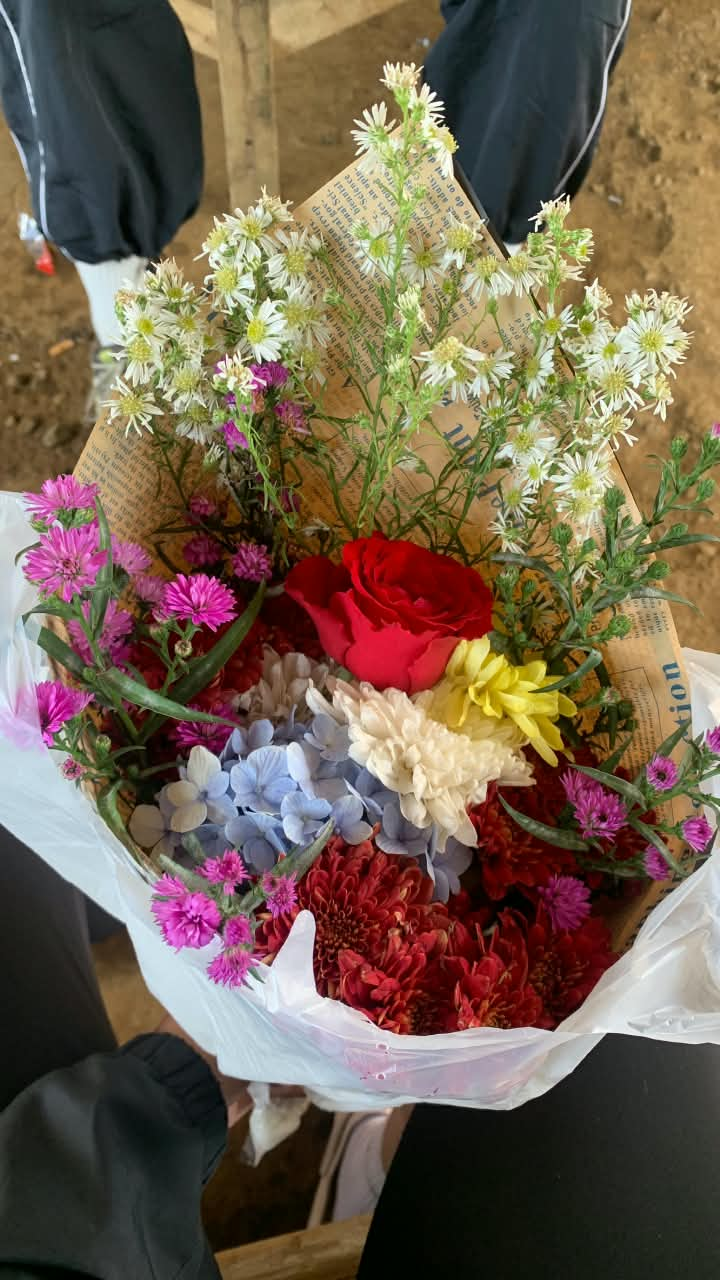
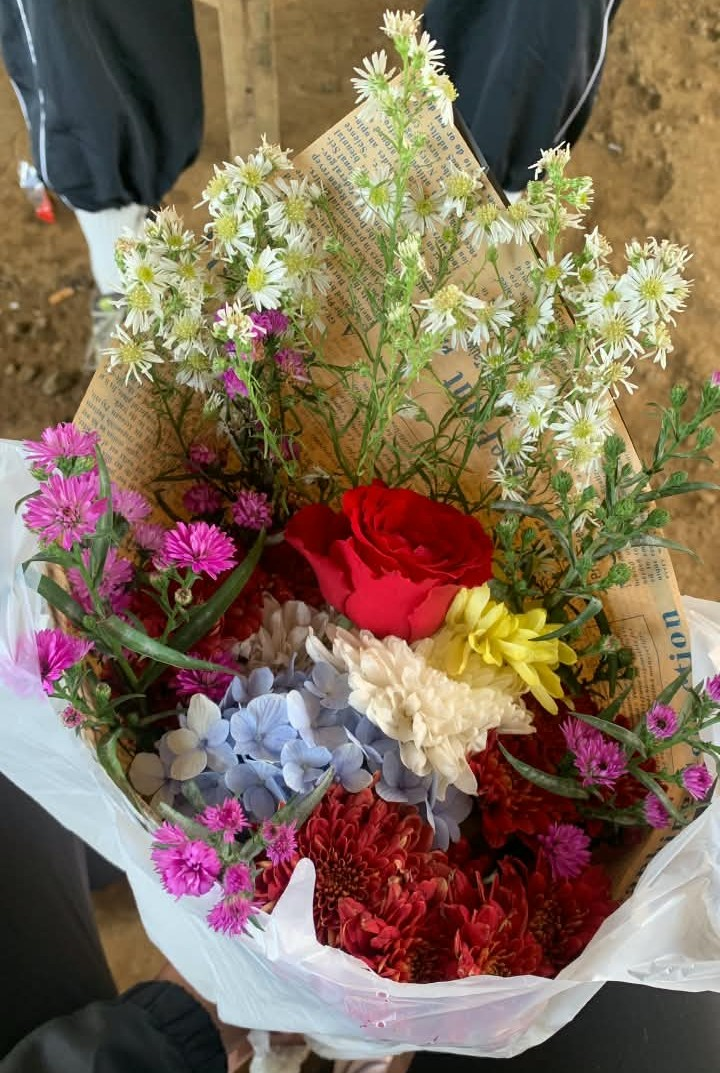
foto5 ikut rasio asli & lebih kecil, cover lebih estetik, catatan Panasea jadi toast melayang yang bisa di-skip

diff --git a/app/globals.css b/app/globals.css
@@ -374,6 +374,91 @@
         @media (max-width: 720px) {
             .photo-frame.photo-lastpic { width:82%; }
         }
+        /* foto halaman 5 (A Flowers) — bingkai mengikuti rasio asli foto (portrait),
+           dibatasi tinggi supaya tetap masuk layar, dengan bingkai rapat (hug). */
+        .photo-frame.photo-foto5 {
+            display:inline-block; width:auto; max-width:100%;
+            max-height:none; aspect-ratio:auto;
+            padding:5px; flex:0 0 auto;
+            margin:6px auto 14px;
+        }
+        .photo-frame.photo-foto5 img {
+            width:auto; height:auto;
+            max-width:min(52vw, 280px);
+            max-height:34vh;
+            object-fit:contain; border-radius:3px; display:block;
+        }
+        .photo-frame.photo-tilt.photo-foto5 {
+            transform:rotate(-2.5deg) !important;
+        }
+        @media (max-width: 720px) {
+            .photo-frame.photo-foto5 img { max-width:60vw; max-height:30vh; }
+        }
+
+        /* ---- TOAST CATATAN PANASEA (melayang, bisa di-skip) ---- */
+        .panasea-toast {
+            position:fixed; top:26px; left:50%; transform:translateX(-50%);
+            z-index:1200; width:min(92vw, 420px);
+            display:flex; flex-direction:column; gap:12px;
+            padding:16px 16px 14px;
+            border-radius:16px;
+            background:linear-gradient(160deg, rgba(107,18,24,.97), rgba(59,10,15,.97));
+            border:1px solid rgba(201,163,92,.5);
+            box-shadow:0 18px 50px rgba(0,0,0,.5), 0 0 0 1px rgba(255,255,255,.04) inset;
+            backdrop-filter:blur(6px);
+            color:var(--cream);
+            font-family:'Quicksand',sans-serif;
+            animation:toastIn .55s cubic-bezier(.2,.9,.25,1) both;
+        }
+        .panasea-toast.leaving { animation:toastOut .45s ease forwards; }
+        @keyframes toastIn {
+            from { opacity:0; transform:translate(-50%, -14px) scale(.97); }
+            to { opacity:1; transform:translate(-50%, 0) scale(1); }
+        }
+        @keyframes toastOut {
+            to { opacity:0; transform:translate(-50%, -14px) scale(.97); }
+        }
+        .toast-note { display:flex; align-items:flex-start; gap:12px; }
+        .toast-icon {
+            flex:0 0 auto; width:38px; height:38px; border-radius:50%;
+            display:flex; align-items:center; justify-content:center;
+            font-size:1.1rem; color:var(--gold-soft);
+            border:1px solid rgba(201,163,92,.55);
+            background:radial-gradient(circle at 50% 40%, rgba(201,163,92,.22), transparent 70%);
+            animation:toastPulse 2.4s ease-in-out infinite;
+        }
+        @keyframes toastPulse {
+            0%,100% { box-shadow:0 0 0 0 rgba(201,163,92,.25); }
+            50% { box-shadow:0 0 0 8px rgba(201,163,92,0); }
+        }
+        .toast-body { flex:1; min-width:0; }
+        .toast-title {
+            display:block; font-family:'Playfair Display',serif;
+            font-size:.95rem; letter-spacing:.3px; color:var(--gold-soft);
+            margin-bottom:2px; font-weight:600;
+        }
+        .toast-body p { margin:0; font-size:.86rem; line-height:1.45; color:rgba(246,231,216,.92); }
+        .toast-skip {
+            flex:0 0 auto; width:26px; height:26px; border-radius:50%;
+            border:1px solid rgba(201,163,92,.4); background:transparent;
+            color:rgba(246,231,216,.75); font-size:1rem; line-height:1;
+            cursor:pointer; display:flex; align-items:center; justify-content:center;
+            transition:background .2s, color .2s, transform .2s;
+        }
+        .toast-skip:hover { background:rgba(201,163,92,.18); color:var(--cream); transform:scale(1.08); }
+        .toast-go {
+            align-self:flex-end; border:none; cursor:pointer;
+            padding:8px 18px; border-radius:999px;
+            font-family:'Quicksand',sans-serif; font-weight:700; font-size:.85rem;
+            color:#2b0608; background:linear-gradient(180deg, var(--gold-soft), var(--gold));
+            box-shadow:0 6px 16px rgba(201,163,92,.35);
+            transition:transform .15s, filter .2s;
+        }
+        .toast-go:hover { transform:translateY(-1px); filter:brightness(1.05); }
+        @media (max-width: 720px) {
+            .panasea-toast { top:14px; padding:14px; }
+            .toast-body p { font-size:.82rem; }
+        }
 
         /* ---- halaman sampul (cover book) ---- */
         .face.cover-face {
@@ -390,11 +475,78 @@
         /* garis emas tipis mengelilingi muka sampul */
         .cover-frame { position:absolute; inset:14px; border:1px solid rgba(201,163,92,.45); border-radius:2px 6px 6px 2px; pointer-events:none; }
         .cover-frame::after { content:''; position:absolute; inset:4px; border:1px solid rgba(201,163,92,.22); }
+        .face.cover-face .page-inner { position:relative; z-index:2; }
+        /* --- dekorasi sampul supaya tidak polos --- */
+        .cover-deco { position:absolute; inset:0; pointer-events:none; z-index:1; }
+        .cov-star {
+            position:absolute; font-size:.8rem; line-height:1; color:var(--gold-soft);
+            opacity:.6; animation:covTwinkle 3.6s ease-in-out infinite;
+        }
+        .cov-star.s1 { top:12%; left:20%; animation-delay:0s; }
+        .cov-star.s2 { top:22%; right:18%; font-size:1rem; animation-delay:.7s; }
+        .cov-star.s3 { top:58%; left:13%; font-size:.7rem; animation-delay:1.4s; }
+        .cov-star.s4 { bottom:16%; right:22%; font-size:.9rem; animation-delay:2.1s; }
+        .cov-star.s5 { bottom:26%; left:26%; font-size:.65rem; animation-delay:2.8s; }
+        .cov-flow {
+            position:absolute; font-size:1.15rem; color:rgba(201,163,92,.45);
+            font-family:'Playfair Display',serif;
+        }
+        .cov-flow.tr { top:22px; right:22px; }
+        .cov-flow.tl { top:22px; left:22px; transform:scaleX(-1); }
+        .cov-flow.br { bottom:22px; right:22px; transform:rotate(180deg); }
+        .cov-flow.bl { bottom:22px; left:22px; transform:scale(-1); }
+        @keyframes covTwinkle {
+            0%,100% { opacity:.25; transform:scale(.85); }
+            50% { opacity:.85; transform:scale(1.1); }
+        }
         .cover-emblem {
-            width:74px; height:74px; margin:0 auto 18px; border-radius:50%;
+            position:relative; overflow:visible;
+            width:78px; height:78px; margin:0 auto 18px; border-radius:50%;
             border:1.5px solid var(--gold); display:flex; align-items:center; justify-content:center;
             font-family:'Playfair Display',serif; font-size:1.7rem; color:var(--gold-soft);
+            background:radial-gradient(circle at 50% 45%, rgba(201,163,92,.14), transparent 70%);
             box-shadow:0 0 26px rgba(201,163,92,.35), inset 0 0 14px rgba(201,163,92,.15);
+        }
+        .cover-emblem .cov-orn { display:block; animation:covOrn 6s ease-in-out infinite; }
+        @keyframes covOrn {
+            0%,100% { transform:translateY(0) rotate(0deg); opacity:.9; }
+            50% { transform:translateY(-2px) rotate(2deg); opacity:1; }
+        }
+        .cover-emblem::before {
+            content:''; position:absolute; inset:-9px; border-radius:50%;
+            border:1px solid rgba(201,163,92,.35);
+            border-top-color:transparent; border-bottom-color:transparent;
+            animation:covRing 14s linear infinite;
+        }
+        @keyframes covRing { to { transform:rotate(360deg); } }
+        /* kilau kecil mengorbit emblem */
+        .cover-sparkles { position:absolute; top:0; left:50%; width:0; height:0; }
+        .cover-sparkles i {
+            position:absolute; width:4px; height:4px; border-radius:50%;
+            background:var(--gold-soft); opacity:.7;
+            box-shadow:0 0 6px rgba(201,163,92,.9);
+        }
+        .cover-sparkles i:nth-child(1) { top:-46px; left:2px; animation:covOrbit 9s linear infinite; }
+        .cover-sparkles i:nth-child(2) { top:-46px; left:2px; width:3px; height:3px; animation:covOrbit 13s linear infinite reverse; }
+        .cover-sparkles i:nth-child(3) { top:-46px; left:2px; width:2.5px; height:2.5px; animation:covOrbit 7s linear infinite; animation-delay:-3s; }
+        @keyframes covOrbit {
+            from { transform:rotate(0deg) translateX(46px); }
+            to { transform:rotate(360deg) translateX(46px); }
+        }
+        /* garis + berlian kecil di kaki sampul */
+        .cover-foot {
+            display:flex; align-items:center; justify-content:center; gap:10px;
+            margin-top:22px; opacity:.85;
+        }
+        .cover-foot .cov-line {
+            height:1px; width:52px;
+            background:linear-gradient(90deg,transparent,rgba(201,163,92,.6));
+        }
+        .cover-foot .cov-line:last-child { background:linear-gradient(90deg,rgba(201,163,92,.6),transparent); }
+        .cover-foot .cov-diamond { font-size:.6rem; color:var(--gold-soft); }
+        @media (max-width: 720px) {
+            .cover-emblem { width:66px; height:66px; font-size:1.5rem; }
+            .cover-sparkles i:nth-child(n) { animation-duration:12s; }
         }
         .face.cover-face .rule { background:linear-gradient(90deg,transparent,var(--gold-soft),transparent); }
 

diff --git a/components/BirthdayGift.js b/components/BirthdayGift.js
@@ -26,14 +26,38 @@ const LEAVES = [
       render: () => (
         <>
           <div className="cover-frame"></div>
+          {/* ornamen halus supaya sampul tidak polos */}
+          <div className="cover-deco" aria-hidden="true">
+            <span className="cov-star s1">✦</span>
+            <span className="cov-star s2">✧</span>
+            <span className="cov-star s3">✦</span>
+            <span className="cov-star s4">✧</span>
+            <span className="cov-star s5">✦</span>
+            <span className="cov-flow tr">❦</span>
+            <span className="cov-flow tl">❦</span>
+            <span className="cov-flow br">❦</span>
+            <span className="cov-flow bl">❦</span>
+          </div>
           <div className="page-inner center">
-            <div className="cover-emblem">❦</div>
+            <div className="cover-sparkles" aria-hidden="true">
+              <i></i>
+              <i></i>
+              <i></i>
+            </div>
+            <div className="cover-emblem">
+              <span className="cov-orn">❦</span>
+            </div>
             <div className="page-eyebrow">Surat kecil dari aku untuk kamu"</div>
             <h2>Dear Tama</h2>
             <div className="rule"></div>
             <p className="soft" style={{ color: "var(--gold-soft)" }}>
               Untuk seseorang yang pernah hidup dikehidupan ku
             </p>
+            <div className="cover-foot" aria-hidden="true">
+              <span className="cov-line"></span>
+              <span className="cov-diamond">✦</span>
+              <span className="cov-line"></span>
+            </div>
           </div>
         </>
       ),
@@ -155,7 +179,7 @@ const LEAVES = [
             <PhotoFrame
               src="/img/foto5.jpg"
               placeholder="img/foto5.jpg"
-              className="photo-tilt"
+              className="photo-tilt photo-foto5"
               hideImgOnError={hideImgOnError}
             />
             <p className="dropcap">
@@ -201,6 +225,18 @@ export default function BirthdayGift() {
   const [introFading, setIntroFading] = useState(false);
   const [mainVisible, setMainVisible] = useState(false);
   const [mainOpacity, setMainOpacity] = useState(0);
+
+  // ---------- Toast catatan Panasea (melayang sebelum klik letter) ----------
+  const [toastVisible, setToastVisible] = useState(false); // sudah waktunya tampil
+  const [toastLeaving, setToastLeaving] = useState(false); // sedang fade-out
+  const [toastDone, setToastDone] = useState(false); // sudah ditutup / di-skip
+  const toastTimer = useRef(null);
+
+  const dismissToast = useCallback(() => {
+    clearTimeout(toastTimer.current);
+    setToastLeaving(true);
+    toastTimer.current = setTimeout(() => setToastDone(true), 450);
+  }, []);
 
   useEffect(() => {
     const t = setTimeout(() => {
@@ -287,8 +323,20 @@ export default function BirthdayGift() {
     [duration]
   );
 
+  // ---------- Toast catatan Panasea ----------
+  // Muncul melayang bentar setelah konten utama tampil, lalu hilang sendiri.
+  // Bisa juga langsung dilewati dengan tombol x / klik "Lanjut".
+  useEffect(() => {
+    if (!mainVisible || toastDone) return;
+    const t = setTimeout(() => setToastVisible(true), 900);
+    const auto = setTimeout(() => dismissToast(), 12000);
+    return () => {
+      clearTimeout(t);
+      clearTimeout(auto);
+    };
+  }, [mainVisible, toastDone, dismissToast]);
+
   // ---------- AUTOPLAY ----------
-  // Begitu konten utama tampil (setelah intro), langsung coba putar lagu.
   // Browser modern melarang autoplay BERSUARA tanpa interaksi user, jadi kalau
   // diblokir kita pasang listener sekali-pakai: pada sentuhan/klik/tombol
   // pertama apa pun, lagu langsung diputar otomatis.
@@ -748,7 +796,7 @@ export default function BirthdayGift() {
           <div className="container">
             <h1>Happy birthday Tama</h1>
             <p className="subtitle">Dari aku untuk satria bukit pratama</p>
-            <p className="subtitle">"Don't forget to listen to the Panasea song at 56 seconds :)"</p>
+            {/* catatan panasea dipindah jadi toast melayang (lihat bawah) */}
 
             <div className="playlist-wrapper">
               <div className={`song-art${playing ? " spinning" : ""}`} aria-hidden="true">
@@ -843,6 +891,36 @@ export default function BirthdayGift() {
 
             <p className="tap-hint">Tap the cards to open</p>
           </div>
+        </div>
+      )}
+
+      {/* ===================== TOAST CATATAN PANASEA ===================== */}
+      {toastVisible && !toastDone && (
+        <div
+          className={`panasea-toast${toastLeaving ? " leaving" : ""}`}
+          role="status"
+          aria-live="polite"
+        >
+          <div className="toast-note">
+            <span className="toast-icon" aria-hidden="true">
+              ♪
+            </span>
+            <div className="toast-body">
+              <b className="toast-title">Sebelum mulai…</b>
+              <p>Don&apos;t forget to listen to the Panasea song at 56 seconds :)</p>
+            </div>
+            <button
+              className="toast-skip"
+              onClick={dismissToast}
+              aria-label="Lewati catatan"
+              title="Lewati"
+            >
+              ×
+            </button>
+          </div>
+          <button className="toast-go" onClick={dismissToast}>
+            Lanjut →
+          </button>
         </div>
       )}
 
